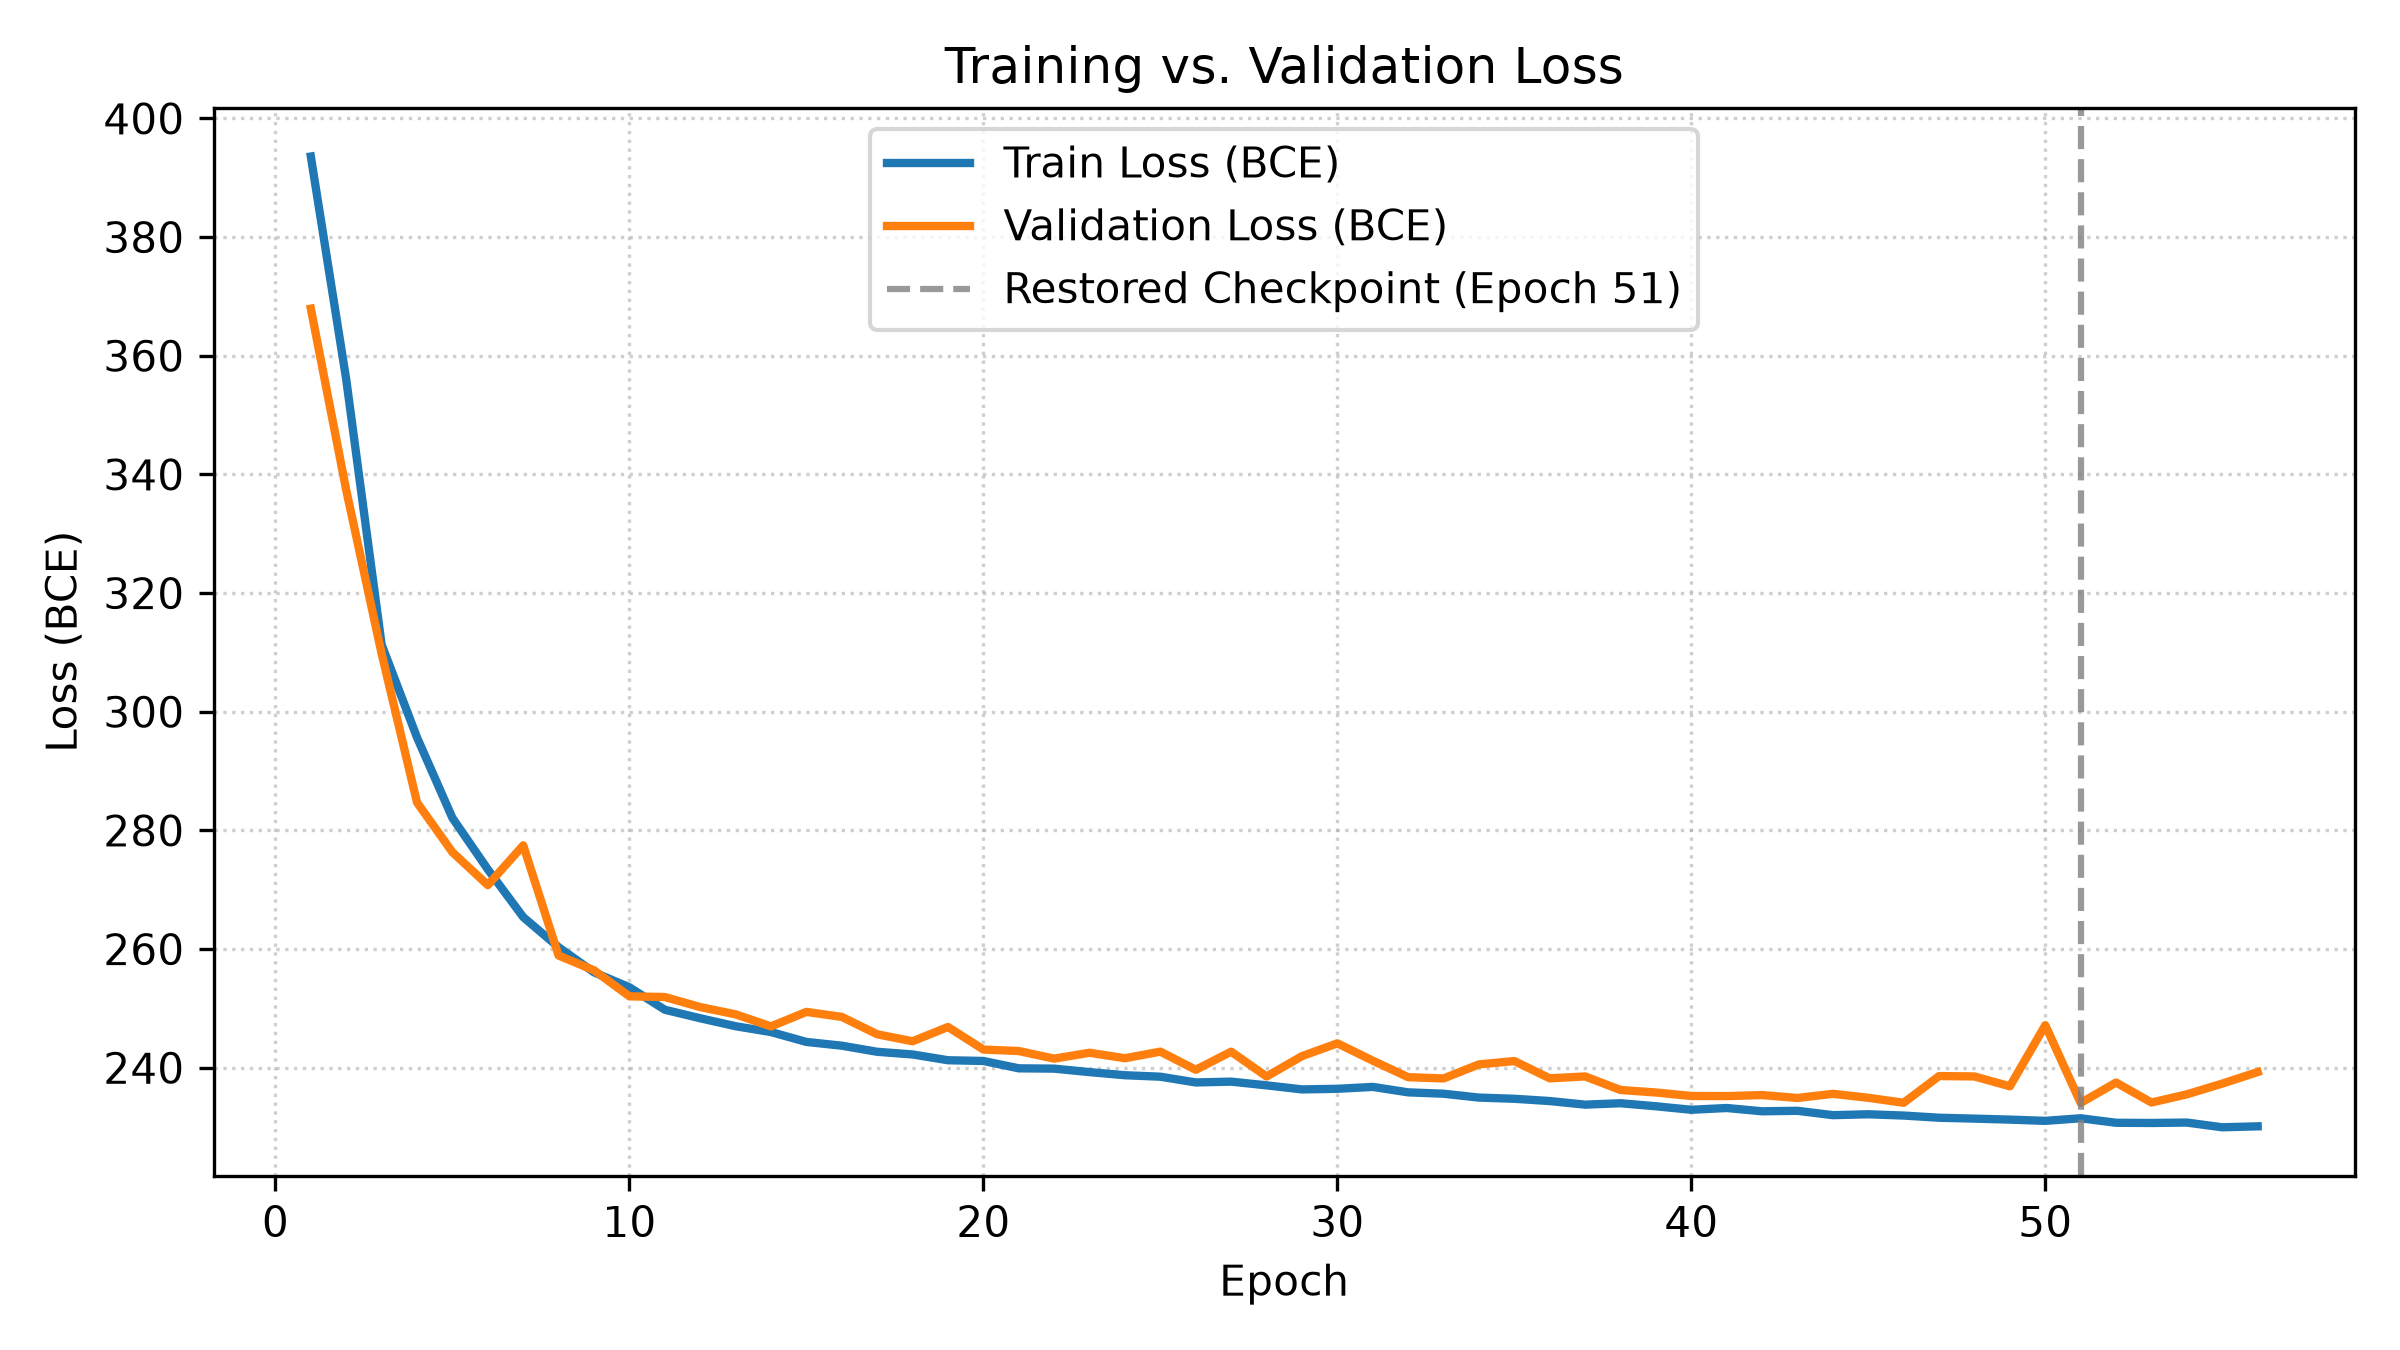
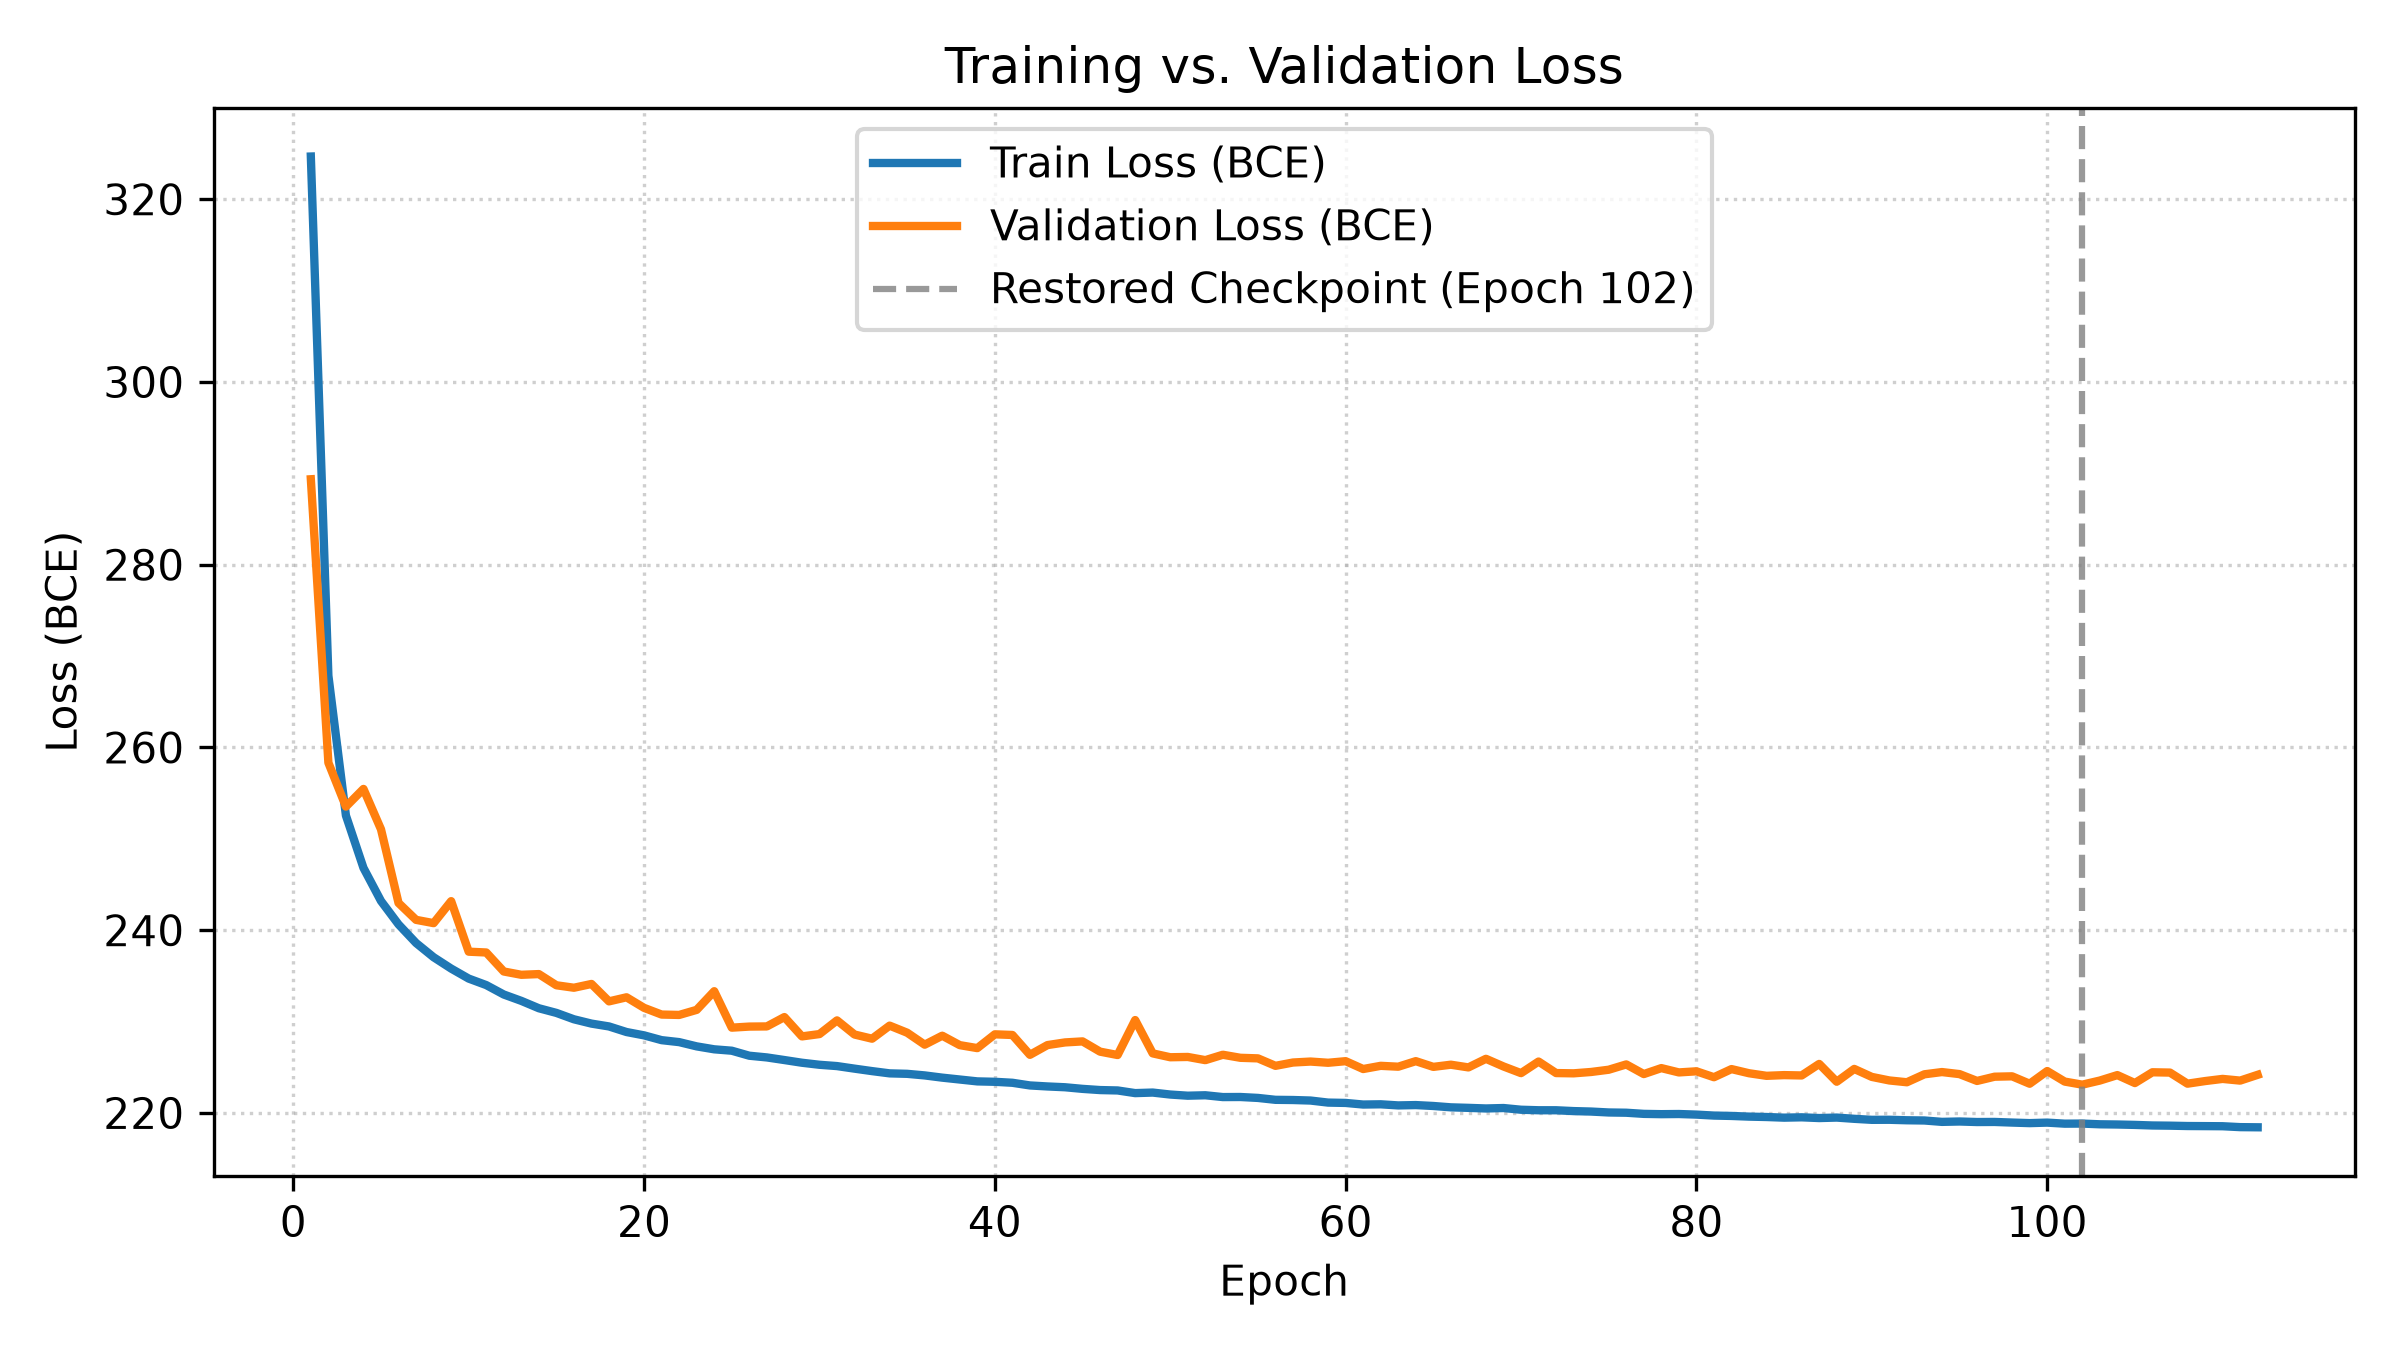
fixed some stuff

diff --git a/homework2/initialization.py b/homework2/initialization.py
@@ -3,53 +3,51 @@ import numpy.random as random
 from layers import Layer, LinearLayer
 
 # === weights and bias initialization ===
-def init_weights_zero(m: LinearLayer) -> None:
+def init_zero(m: LinearLayer, **_) -> None:
     """Zero init."""
-    m.weight = np.zeros_like(m.weight)
-    m.bias = np.zeros_like(m.bias)
+    m.weight.fill(0.0)
+    m.bias.fill(0.0)
         
-def init_weights_uniform(m: LinearLayer, low: float = 0.0, high: float = 1.0) -> None:
+def init_uniform(m: LinearLayer, low: float = 0.0, high: float = 1.0, **_) -> None:
     """Uniform init in [a, b)."""
-    m.weight = random.uniform(low=low, high=high, size=m.weight.shape)
-    m.bias = random.uniform(low=low, high=high, size=m.bias.shape)
+    m.weight[:] = random.uniform(low=low, high=high, size=m.weight.shape)
+    m.bias[:] = random.uniform(low=low, high=high, size=m.bias.shape)
 
-def init_weights_normal(m: LinearLayer, mean: float = 0.0, std: float = 1.0) -> None:
+def init_normal(m: LinearLayer, mean: float = 0.0, std: float = 1.0, **_) -> None:
     """Normal init with mean and std."""
-    m.weight = random.normal(loc=mean, scale=std, size=m.weight.shape)
-    m.bias = random.normal(loc=mean, scale=std, size=m.bias.shape)
+    m.weight[:] = random.normal(loc=mean, scale=std, size=m.weight.shape)
+    m.bias[:] = random.normal(loc=mean, scale=std, size=m.bias.shape)
         
-def init_weights_default(m: LinearLayer) -> None:
-    """Default pytorch init."""
+def init_default(m: LinearLayer, **_) -> None:
+    """Default pytorch (LeCun uniform) init."""
     k = 1 / np.sqrt(m.weight.shape[0])
-    init_weights_uniform(m, -k, k)
+    init_uniform(m, low=-k, high=k)
     
-inits = {
-    'zero': init_weights_zero,
-    'default': init_weights_default,
-    'uniform': init_weights_uniform,
-    'normal': init_weights_normal
+def init_mixed(m: LinearLayer, act: str, alpha: float, **_) -> None:
+    """Specialized init that inits biases at 0, but inits weights differently depending on the activation function applied after this linear layer.
+    It applies He init before LeakyReLU/ReLU and Xavier init before Tanh/Sigmoid."""
+    n_in, n_out = m.weight.shape
+    if act in ['relu', 'leaky_relu']:
+        # Kaiming/He normal init for ReLU variants
+        slope = alpha if act=='leaky_relu' else 0.0
+        std = np.sqrt(2.0 / ((1.0 + slope ** 2) * n_in))
+    else: # Xavier normal init for Tanh, Sigmoid, Linear
+        std = np.sqrt(2.0 / (n_in + n_out))
+    mean = 0.0
+
+    m.weight[:] = random.normal(loc=mean, scale=std, size=m.weight.shape)
+    m.bias.fill(0.0)
+    
+INITS = {
+    'zero': init_zero,
+    'default': init_default,
+    'uniform': init_uniform,
+    'normal': init_normal,
+    'mixed': init_mixed
 }
         
 # Other candidates: Xavier init, Kaiming He init
 
-def init_factory(type: str, m: Layer):
+def init_factory(type: str, m: Layer, **kwargs):
     if isinstance(m, LinearLayer) and hasattr(m, 'weight'):
-        inits[type](m)
-
-'''
-def init_weights_smart(model: AutoEncoder, alpha: float = 0.01) -> None:
-    """Applies He initialization before LeakyReLU/ReLU and Xavier before Tanh/Sigmoid."""
-    for i in range(0, len(model.layers), 2):
-        linear: LinearLayer = model.layers[i]
-        act_layer = model.layers[i + 1]
-        n_in, n_out = linear.weight.shape
-
-        if isinstance(act_layer, (ReLU, LeakyReLU)):
-            slope = alpha if isinstance(act_layer, LeakyReLU) else 0.0
-            std = np.sqrt(2.0 / ((1.0 + slope ** 2) * n_in))
-        else:  # Tanh, Sigmoid, Softplus
-            std = np.sqrt(2.0 / (n_in + n_out))
-
-        linear.weight = np.random.normal(0.0, std, size=(n_in, n_out)).astype(np.float32)
-        linear.bias = np.zeros(n_out, dtype=np.float32)
-'''
+        INITS[type](m, **kwargs)

diff --git a/homework2/networks.py b/homework2/networks.py
@@ -1,21 +1,23 @@
 from layers import Layer, LinearLayer
 from activations import activation_layers
-from initialization import inits
+from initialization import INITS
 
 class AutoEncoder(Layer):
     def __init__(self,
                  layers = (784, 128, 16, 128, 784),
                  acts: tuple[str,...] = activation_layers.keys(),
-                 init='default'):
+                 init: str = 'default',
+                 alpha = 0.01):
         super().__init__()
-        assert len(acts) == len(layers) - 1, "Must provide one act per layer transition."
+        n_layers = len(layers) - 1
+        assert len(acts) == n_layers, "Must provide one act per layer transition."
         self.layers: list[Layer] = []
         
         for i in range(len(layers) - 1):
             linear = LinearLayer(layers[i], layers[i + 1])
-            inits[init](linear)
+            INITS[init](linear, act=acts[i], alpha=alpha)
             self.layers.append(linear)
-            self.layers.append(activation_layers[acts[i]]())
+            self.layers.append(activation_layers[acts[i]](alpha=alpha))
 
     def forward(self, x):
         for layer in self.layers:

diff --git a/homework2/activations.py b/homework2/activations.py
@@ -5,7 +5,7 @@ def clip(x):
     return np.clip(x, -1028.0, 1028.0)  
 
 class ReLU(Layer):
-    def __init__(self):
+    def __init__(self, **_):
         self.mask = None
 
     def forward(self, x):
@@ -43,7 +43,7 @@ class ELU(Layer):
 
 
 class Sigmoid(Layer):
-    def __init__(self):
+    def __init__(self, **_):
         self.out = None
 
     def forward(self, x):
@@ -57,7 +57,7 @@ class Sigmoid(Layer):
 
 
 class Tanh(Layer):
-    def __init__(self):
+    def __init__(self, **_):
         self.out = None
 
     def forward(self, x):
@@ -69,7 +69,7 @@ class Tanh(Layer):
 
 
 class Softplus(Layer):
-    def __init__(self):
+    def __init__(self, **_):
         self.x = None
 
     def forward(self, x):
@@ -82,6 +82,9 @@ class Softplus(Layer):
         return grad_output * sig
     
 class Linear(Layer):
+    def __init__(self, **_):
+        pass
+    
     def forward(self, x):
         return x
 

diff --git a/homework2/exA.py b/homework2/exA.py
@@ -9,13 +9,13 @@ SEED = 4
 
 def main():
     t0 = time.perf_counter()
-    
     np.random.seed(SEED)
+    
     dataset = Dataset(train_csv='homework2/THA2train.csv', val_csv='homework2/THA2validate.csv')
-    ae = AutoEncoder(acts=('leaky_relu', 'tanh', 'leaky_relu', 'sigmoid'), init='default')
+    ae = AutoEncoder(acts=('leaky_relu', 'linear', 'leaky_relu', 'sigmoid'), init='mixed', alpha=0.05)
     LR = 1e-2
     BATCH_SIZE = 64
-    trainer = Trainer(model=ae, loss= 'bce', lr=LR, batch_size=BATCH_SIZE, max_epochs=500)
+    trainer = Trainer(model=ae, loss='bce', lr=LR, batch_size=BATCH_SIZE, max_epochs=500)
     trainer.train(dataset.train_x, dataset.val_x)
     
     dt = time.perf_counter() - t0
@@ -28,4 +28,3 @@ def main():
 if __name__ == '__main__':
     
     main()
-    

diff --git a/homework2/training.py b/homework2/training.py
@@ -1,6 +1,5 @@
 import copy
 import numpy as np
-import numpy.random as random
 from layers import Layer, LinearLayer
 from networks import AutoEncoder
 from metrics import loss_funcs, mse_metric
@@ -46,8 +45,8 @@ class Trainer:
         loss: str,
         lr: float = 0.01,
         early_stopping: bool = True,
-        patience: int = 5,
-        min_delta: float = 1e-5,
+        patience: int = 10,
+        min_delta: float = 1e-6,
         batch_size: int = 64,
         max_epochs: int = 500,
         capture_snapshots: bool = False,
